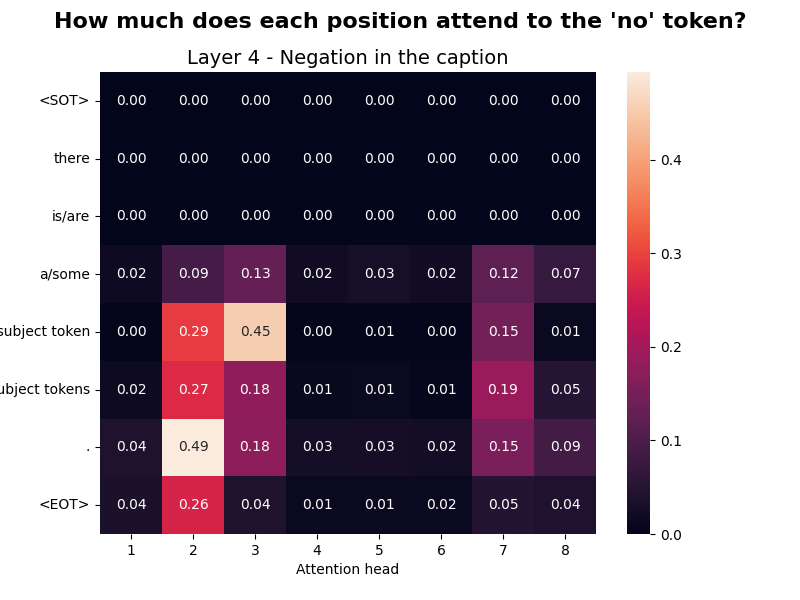
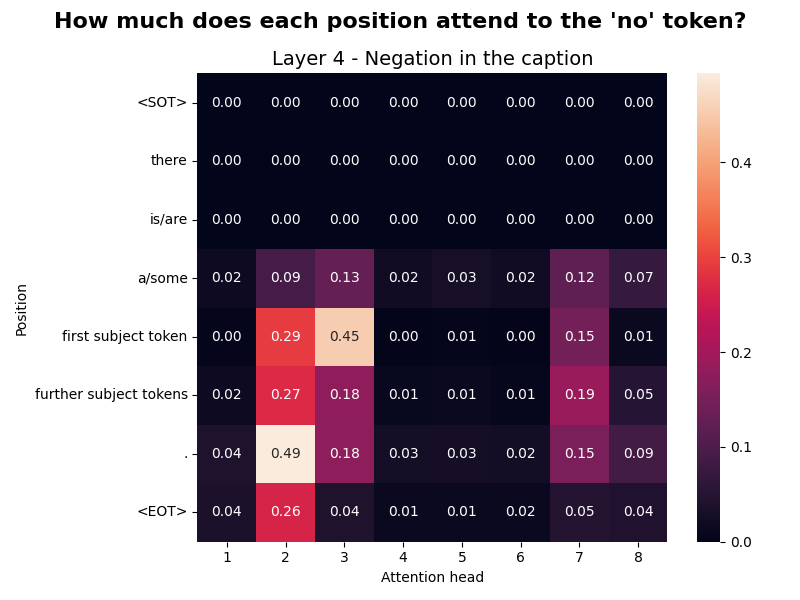
Fix plot

diff --git a/src/attention/analyse_attention_to_negator_in_layer.py b/src/attention/analyse_attention_to_negator_in_layer.py
@@ -7,7 +7,7 @@ import seaborn as sns
 from tqdm import tqdm
 
 CONFIG = {
-    'negation': 'foil',
+    'negation': 'caption',
     'segment': None,
     'layer_of_interest': 3
 }
@@ -80,6 +80,8 @@ ax.set(xlabel="Attention head", ylabel="Position")
 plt.suptitle("How much does each position attend to the 'no' token?", fontsize=16, fontweight='bold')
 ax.set_title(f"Layer {CONFIG['layer_of_interest'] + 1} - Negation in the {CONFIG['negation']}", fontsize=14)
 # plt.show()
+
+plt.tight_layout()
 
 plot_filename = f"attention_layer_{'_'.join([str(v) for v in CONFIG.values()])}"
 plot_filepath = f"../../output/charts/attention/{plot_filename}"
